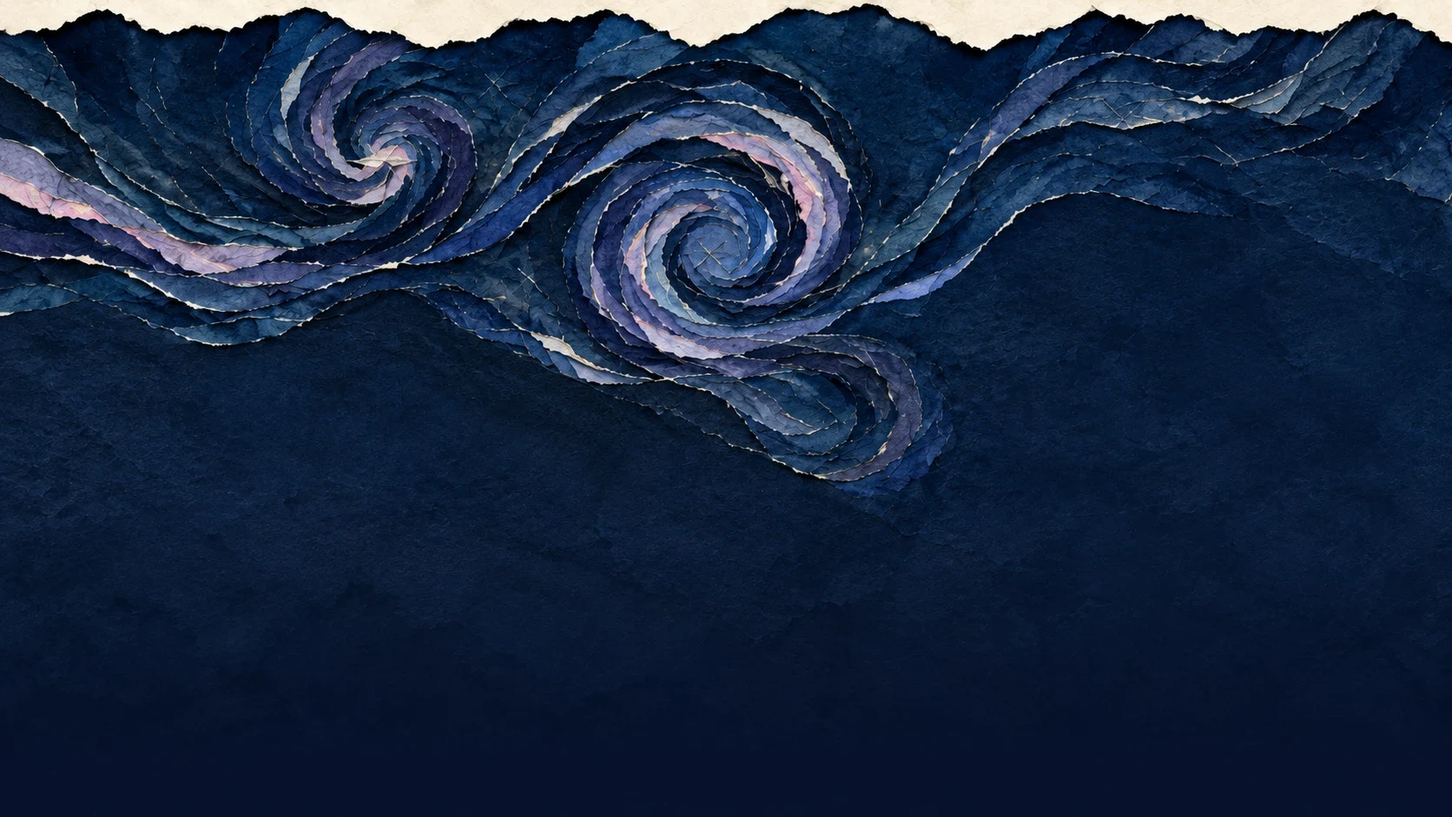
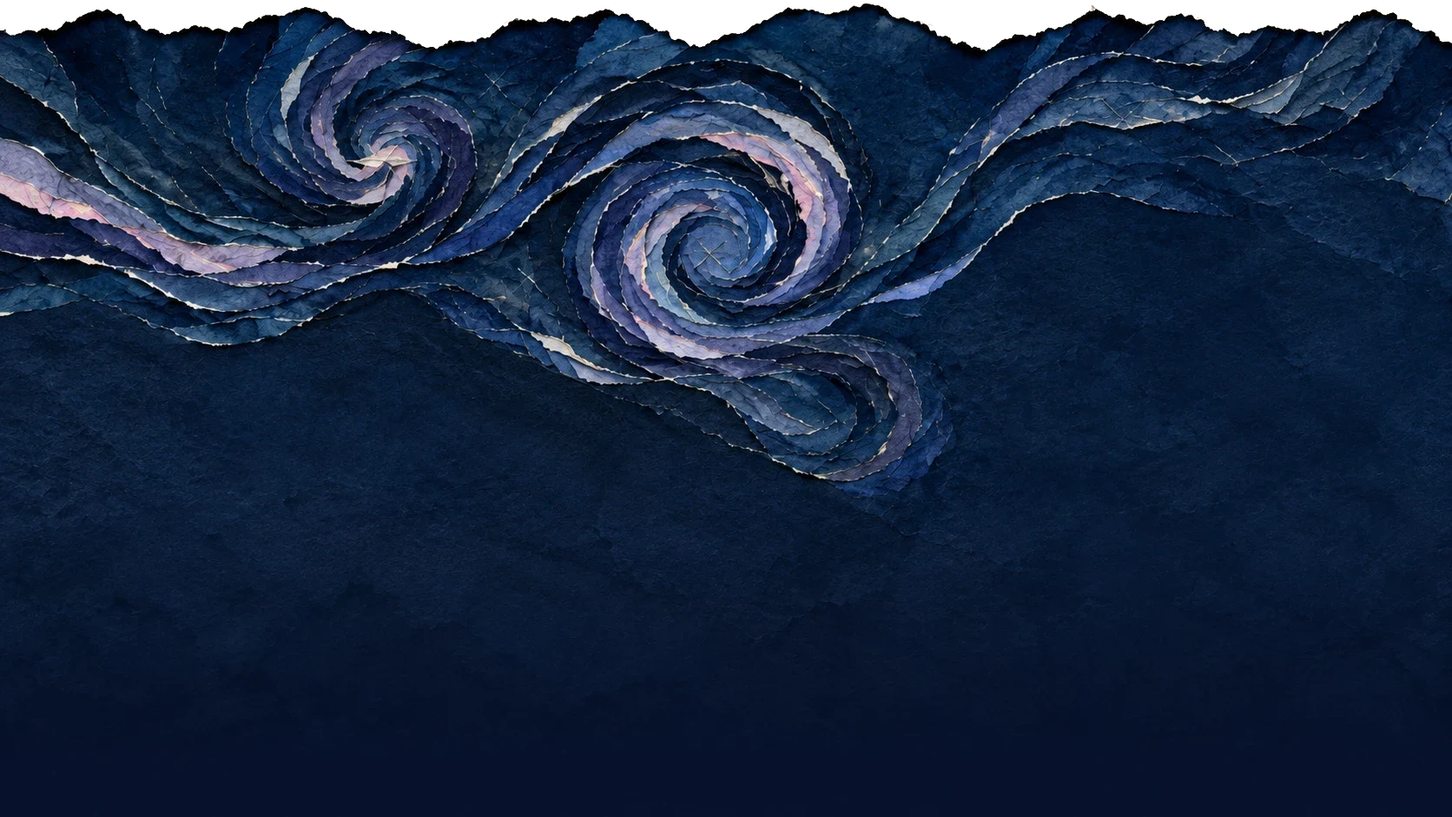
Site rebrand (not published): tiger + original footer layout back on the new art, Instrument Serif, Stand out online.
- Footer: 2026-10-03 layout (running tiger, quote + sign-up pill, wordmark + menu columns, legal row)
  on the Starry Night art; menus sit below the torn strips; base navy #070f23 matches the art's bottom.
- Torn top edge is see-through and the footer overlaps the section above, so no page-colour strip shows.
- Headings in Instrument Serif with -.01em tracking; homepage headline Stand out online. on one line,
  no marker behind it.
- Rate preset pills: chosen = bold navy ring, others greyed (no solid navy pill).

Changed region(s): [[0.0, 0.0, 1.0, 0.0616]]

diff --git a/website/scrolly-site/chrome/chrome.css b/website/scrolly-site/chrome/chrome.css
@@ -3,7 +3,7 @@
    "Tiger." (less girly tone, 2026-10-20), Jost (loaded by v3.css), navy torn-paper Starry Night footer. */
 html body #site-header,html body #site-footer{display:none!important}
 body{background:#f7f3ec}
-.scxg{--gut:clamp(20px,4.5vw,96px);--navy:#0a1930;--fnavy:#0b142c;--cream:#f7f3ec;--sky:#4da3ff;--pink:#ff3b7f;--mist:#dfe4f0;--mist-ink:#c9d1e6;--serif:Georgia,"Times New Roman",serif;--sans:"Jost",Arial,Helvetica,sans-serif;font-family:var(--sans);font-size:16px;line-height:1.45;color:var(--navy);position:relative}
+.scxg{--gut:clamp(20px,4.5vw,96px);--navy:#0a1930;--fnavy:#070f23;--cream:#f7f3ec;--sky:#4da3ff;--pink:#ff3b7f;--mist:#dfe4f0;--mist-ink:#c9d1e6;--serif:"Instrument Serif",Georgia,"Times New Roman",serif;--sans:"Jost",Arial,Helvetica,sans-serif;font-family:var(--sans);font-size:16px;line-height:1.45;color:var(--navy);position:relative}
 .scxg *,.scxg *::before,.scxg *::after{box-sizing:border-box}
 .scxg a{color:inherit}
 .scxg ul,.scxg li{list-style:none;margin:0;padding:0}
@@ -13,7 +13,7 @@ body{background:#f7f3ec}
 /* header (v3 2026-10-03, rebrand 2026-10-19: Jost nav in sentence case, sky hover underline, sky pill) */
 .scxg-hdr{position:relative;z-index:60;display:grid;grid-template-columns:auto 1fr auto;align-items:center;gap:24px;min-height:96px;padding:16px var(--gut);background:var(--cream)}
 .scxg-logo{display:block;justify-self:start;color:var(--navy);text-decoration:none}
-.scxg-wm{display:block;font:400 2.2rem/1 var(--serif);letter-spacing:-.05em}
+.scxg-wm{display:block;font:400 2.2rem/1 var(--serif);letter-spacing:-.01em}
 .scxg-hdr nav{display:flex;justify-self:center;align-items:center;gap:clamp(24px,2.4vw,52px);font-size:18px;font-weight:500;letter-spacing:.01em}
 .scxg-hdr nav a{text-decoration:none;white-space:nowrap;padding:12px 0;border-bottom:2px solid transparent}
 .scxg-hdr nav a:hover{border-bottom-color:var(--sky)}
@@ -49,12 +49,13 @@ body{background:#f7f3ec}
 .scxg-dclose{width:44px;height:44px;border:1px solid #fff;border-radius:50%;background:transparent;color:#fff;font-size:26px;line-height:1;cursor:pointer;padding:0}
 .scxg-drawer a{display:block;text-decoration:none;color:#fff}
 .scxg-drawer a:hover{color:var(--sky)}
-.scxg-drawer .top>li>a{font:400 clamp(1.9rem,2.6vw,2.5rem)/1.1 var(--serif);padding:14px 0 6px;letter-spacing:-.02em}
+.scxg-drawer .top>li>a{font:400 clamp(1.9rem,2.6vw,2.5rem)/1.1 var(--serif);padding:14px 0 6px;letter-spacing:-.01em}
 .scxg-drawer .top ul a,.scxg-drawer .top ul .scxg-soon{display:block;font-size:18px;padding:9px 0 9px 16px}
 .scxg-drawer .scxg-soon{color:var(--mist-ink)}
 .scxg-drawer .acct{margin-top:26px;border-top:1px solid rgba(223,228,240,.3);padding-top:14px}
 .scxg-drawer .acct a{font-size:15px;font-weight:700;letter-spacing:.16em;text-transform:uppercase;padding:12px 0}
-/* footer: pre-JS fallback = simple row on navy; chrome.js upgrades it to the rebrand layout (art, quote, sign-up + menu columns, legal row) and adds .v3 */
+/* footer: pre-JS fallback = simple row on navy; chrome.js upgrades it to the v3 layout (running tiger + quote + sign-up, menu columns,
+   legal row) on the rebrand art and adds .v3. Layout is the 2026-10-03 one (Mercedes 2026-10-20: keep the tiger and the layout). */
 .scxg-ftr{background:var(--fnavy);color:#f5f1ff;padding:38px var(--gut) 26px}
 .scxg-ftr .row1{display:flex;align-items:center;justify-content:space-between;gap:24px 46px;flex-wrap:wrap}
 .scxg-ftr .logo{display:block;color:#fff;text-decoration:none}
@@ -64,9 +65,13 @@ body{background:#f7f3ec}
 .scxg-ftr a:hover{text-decoration:underline}
 .scxg-ftr hr{border:0;height:1px;background:rgba(223,228,240,.25);margin:26px 0 16px}
 .scxg-ftr .copy{font-size:17px;color:var(--mist-ink)}
-/* art: three layers from the 2026-10-19 mockup (sky, torn strips, foil stars). The URLs come from chrome.js CFG.art as custom properties;
-   without them the footer is plain navy. The torn cream top edge of the art meets the cream page. */
-.scxg-ftr.v3{position:relative;padding:0;overflow:hidden;background-color:var(--fnavy);background-image:var(--ftr-strips),var(--ftr-sky);background-position:top center;background-repeat:no-repeat;background-size:max(100%,1150px) auto}
+/* art: three layers from the 2026-10-19 mockup (sky, torn strips, foil stars); URLs come from chrome.js CFG.art as custom properties.
+   The sky layer's torn top edge is see-through, and the footer is pulled up by the edge's depth (58 of 1672px), so the section above
+   shows through the tear on every page with no strip of page colour between them. Under the art the footer is #070f23, the art's
+   own bottom navy, so the two read as one sheet of paper. */
+.scxg-ftr.v3{position:relative;z-index:2;margin-top:calc(max(100vw,1150px) * -.035);padding:0;overflow:hidden;background-color:transparent;
+  background-image:var(--ftr-strips,none),var(--ftr-sky,none),linear-gradient(var(--fnavy),var(--fnavy));
+  background-position:top center,top center,0 calc(max(100vw,1150px) * .2);background-repeat:no-repeat;background-size:max(100%,1150px) auto,max(100%,1150px) auto,100% 100%}
 .scxg-ftr .fstars{position:absolute;top:0;left:50%;z-index:0;width:max(100%,1150px);aspect-ratio:1672/941;transform:translateX(-50%);background-image:var(--ftr-stars);background-size:100% 100%;background-repeat:no-repeat;pointer-events:none;animation:scxgtw 5s ease-in-out infinite}
 /* foil glint: a brighter copy of the star layer, revealed by a diagonal band that sweeps across */
 .scxg-ftr .fstars::after{content:"";position:absolute;inset:0;background:inherit;filter:brightness(1.8) saturate(1.15);-webkit-mask:linear-gradient(105deg,transparent 42%,#000 50%,transparent 58%) 150% 0/300% 100% no-repeat;mask:linear-gradient(105deg,transparent 42%,#000 50%,transparent 58%) 150% 0/300% 100% no-repeat;animation:scxgglint 8s ease-in-out infinite}
@@ -74,40 +79,36 @@ body{background:#f7f3ec}
 @keyframes scxgglint{0%{-webkit-mask-position:150% 0;mask-position:150% 0}60%,100%{-webkit-mask-position:-50% 0;mask-position:-50% 0}}
 @media(prefers-reduced-motion:reduce){.scxg-ftr .fstars,.scxg-ftr .fstars::after{animation:none}.scxg-ftr .fstars::after{display:none}}
 .scxg-ftr .w{position:relative;z-index:1;width:calc(100% - 2 * var(--gut));margin:0 auto}
-/* the top row reaches down to the calm navy band under the swirls (31% of the art's width), so the quote never sits on the busy swirl */
-.scxg-ftr .ftop{display:grid;grid-template-columns:minmax(0,1fr) minmax(0,1fr);align-items:end;gap:clamp(28px,5vw,80px);min-height:calc(max(100vw,1150px) * .31);padding:calc(max(5.2vw,60px) + clamp(48px,5vw,88px)) 0 clamp(28px,3vw,48px)}
-.scxg-ftr .fquote{margin:0;font:italic 400 clamp(2.8rem,5vw,5.4rem)/1 var(--serif);letter-spacing:-.03em;color:#f5f1ff;text-shadow:0 0 18px #050f20,0 0 36px #050f20}
+/* the tiger row reaches down past the art's torn-paper strips (to 47% of the art's width), so the tiger stands on them and the menu
+   columns start on the plain navy below, never crossed by a paper edge */
+.scxg-ftr .fhero{position:relative;z-index:1;display:grid;grid-template-columns:minmax(0,1.3fr) minmax(420px,.7fr);align-items:end;gap:20px;min-height:calc(max(100vw,1150px) * .47);padding-top:calc(max(100vw,1150px) * .06)}
+.scxg-ftr .ftiger{display:block;width:min(1400px,80vw);max-width:none;height:auto;margin-left:-16vw;align-self:end;position:relative;z-index:1}
+.scxg-ftr .fbrand{display:flex;flex-direction:column;align-items:flex-start;justify-content:center;gap:24px;align-self:center;padding-right:3vw;position:relative;z-index:2}
+.scxg-ftr .fquote{margin:0;font:italic 400 clamp(2.8rem,3.9vw,5.4rem)/1 var(--serif);letter-spacing:-.01em;color:#f5f1ff;white-space:nowrap;text-shadow:0 0 18px #050f20,0 0 36px #050f20}
 .scxg-ftr .fquote em{color:var(--pink)}
-.scxg-ftr .ffig{justify-self:end;width:min(100%,420px)}
-.scxg-ftr .ffig img{display:block;width:100%;height:auto}
-.scxg-ftr .fnav{display:grid;grid-template-columns:1.4fr repeat(4,minmax(0,1fr));gap:clamp(24px,3vw,56px);align-items:start;padding:clamp(32px,4vw,56px) 0;border-top:1px solid rgba(223,228,240,.25)}
-.scxg-ftr .fsign>p:first-child{margin:0 0 16px;font:400 1.375rem/1.4 var(--sans);color:var(--mist)}
-.scxg-ftr .signup{display:flex;flex-wrap:wrap;align-items:flex-end;gap:10px}
-.scxg-ftr .signup label{flex:1 1 200px;min-width:0}
-.scxg-ftr .signup label span{display:block;margin:0 0 8px;font:700 15px/1.3 var(--sans);letter-spacing:.16em;text-transform:uppercase;color:#f5f1ff}
-.scxg-ftr .signup input{width:100%;min-height:52px;padding:13px 18px;border:1px solid var(--mist-ink);border-radius:999px;background:#fff;color:var(--navy);font:18px var(--sans)}
+.scxg-ftr .fcontact{width:min(430px,100%)}
+.scxg-ftr .signup{display:flex;background:#fff;border:1px solid #fff;border-radius:999px;overflow:hidden}
+.scxg-ftr .signup input{min-width:0;flex:1;background:#fff;color:var(--navy);border:0;padding:13px 16px;font:18px var(--sans)}
 .scxg-ftr .signup input::placeholder{color:#595959;opacity:1}
-.scxg-ftr .signup input:focus-visible{outline:3px solid var(--sky);outline-offset:2px}
-.scxg-ftr .signup button{min-height:52px;padding:14px 26px;border:0;border-radius:999px;background:var(--sky);color:var(--navy);font:800 15px/1 var(--sans);letter-spacing:.16em;text-transform:uppercase;cursor:pointer;transition:background .2s}
-.scxg-ftr .signup button:hover{background:#fff}
+.scxg-ftr .signup input:focus-visible{outline:3px solid var(--sky);outline-offset:-3px}
+.scxg-ftr .signup button{min-width:48px;min-height:48px;border:0;background:var(--sky);color:var(--navy);font-size:1.3rem;cursor:pointer}
+.scxg-ftr .signup button:hover{background:var(--navy);color:#fff}
 .scxg-ftr .signup button[disabled]{opacity:.7;cursor:wait}
-.scxg-ftr .signup-note{margin:10px 0 0;font-size:15px;line-height:1.4;color:var(--mist-ink)}
-.scxg-ftr .social{display:flex;gap:8px;margin-top:14px;margin-left:-10px}
-.scxg-ftr .social a{width:44px;height:44px;display:grid;place-items:center;color:var(--mist)}
-.scxg-ftr .social a:hover{color:#fff}
+.scxg-ftr .signup-note{margin:8px 0 0 16px;font-size:15px;line-height:1.4;color:var(--mist-ink)}
+.scxg-ftr .social{display:flex;gap:13px;margin-top:14px}
+.scxg-ftr .social a{width:44px;height:44px;display:grid;place-items:center;color:#fff}
+.scxg-ftr .social a:hover{color:var(--sky)}
 .scxg-ftr .social svg{width:22px;height:22px}
-.scxg-ftr .col h2{font-family:var(--sans)!important;font-weight:700!important;line-height:1.3;margin:0 0 12px;font-size:15px;letter-spacing:.16em;text-transform:uppercase;color:#f5f1ff}
-.scxg-ftr .col a,.scxg-ftr .col .scxg-soon{display:block;padding:7px 0;font-size:18px;line-height:1.4;color:var(--mist)}
-.scxg-ftr .col a:hover{color:#fff;text-underline-offset:5px}
+.scxg-ftr .fnav{display:grid;grid-template-columns:1.3fr repeat(4,1fr);gap:38px;align-items:start;padding:30px 0 24px}
+.scxg-ftr .fnav .logo .scxg-wm{font-size:2.4rem}
+.scxg-ftr .col h2{font-family:var(--sans)!important;font-weight:700!important;line-height:1.3;margin:0 0 14px;font-size:15px;letter-spacing:.14em;text-transform:uppercase;color:#fff}
+.scxg-ftr .col a,.scxg-ftr .col .scxg-soon{display:block;padding:7px 0;font-size:18px;color:var(--mist)}
+.scxg-ftr .col a:hover{color:#fff}
 .scxg-ftr .col .scxg-soon{color:var(--mist-ink)}
-.scxg-ftr .fbot{display:flex;align-items:center;flex-wrap:wrap;gap:4px 28px;padding:12px 0 26px;border-top:1px solid rgba(223,228,240,.25);font-size:17px;color:var(--mist-ink)}
+.scxg-ftr .fbot{display:flex;align-items:center;justify-content:center;flex-wrap:wrap;gap:4px 36px;padding:16px 0 24px;font-size:17px;color:var(--mist-ink)}
 .scxg-ftr .fbot a{display:inline-flex;align-items:center;min-height:44px;color:var(--mist-ink)}
-@media(max-width:1100px){.scxg-ftr .fnav{grid-template-columns:repeat(2,minmax(0,1fr))}.scxg-ftr .fsign{grid-column:1/-1}}
-/* phones: the quote sits over the swirl (until a 9:16 version of the art exists), so it gets a soft navy glow for contrast */
-/* below 1150px the art is drawn 1150px wide (about 650px tall), so the top row fills it and the quote lands on the dark lower layers; the sign-up and
-   menus then start under the art, clear of the torn paper edges */
-@media(max-width:900px){.scxg-ftr .ftop{grid-template-columns:1fr;min-height:600px;padding-top:min(240px,62vw)}.scxg-ftr .ffig{justify-self:center}.scxg-ftr .fquote{text-shadow:0 0 18px #050f20,0 0 36px #050f20,0 2px 4px #050f20}}
-@media(max-width:700px){.scxg-ftr .w{width:calc(100% - 32px)}.scxg-ftr .fquote{font-size:2.8rem}.scxg-ftr .fnav{gap:28px 20px}.scxg-ftr .signup button{width:100%}.scxg-ftr .fbot{gap:0 22px}}
+@media(max-width:1000px){.scxg-ftr .fhero{grid-template-columns:1fr;min-height:0;padding-top:calc(max(100vw,1150px) * .345)}.scxg-ftr .ftiger{width:125%;max-width:none;margin-left:-22%}.scxg-ftr .fbrand{padding:0 20px 28px}.scxg-ftr .fquote{white-space:normal}.scxg-ftr .fnav{grid-template-columns:repeat(2,1fr)}.scxg-ftr .fnav>.logo{grid-column:1/-1}}
+@media(max-width:700px){.scxg-ftr .w{width:calc(100% - 32px)}.scxg-ftr .fbrand{padding:0 16px 24px}.scxg-ftr .fquote{font-size:2.6rem}.scxg-ftr .fbot{gap:4px 24px}}
 /* WooCommerce block cart/checkout buttons: sky pill, navy text (white on sky fails contrast), no underline */
 body .wc-block-cart__submit-button,body .wc-block-components-checkout-place-order-button,body .wc-block-components-button:not(.is-link){color:#0a1930!important;text-decoration:none!important;border-radius:999px!important}
 body .wc-block-cart__submit-button *,body .wc-block-components-checkout-place-order-button *{color:#0a1930!important;text-decoration:none!important}
@@ -124,7 +125,7 @@ body .wc-block-cart__submit-button:hover *,body .wc-block-components-checkout-pl
 .scxg-cd.open{display:flex;animation:scxgin .25s ease-out}.scxg-cbg.open{display:block}
 @media(prefers-reduced-motion:reduce){.scxg-cd.open{animation:none}}
 .scxg-cd .hd{display:flex;justify-content:space-between;align-items:center;padding:22px 24px 14px}
-.scxg-cd .hd span{font:400 28px/1 Georgia,'Times New Roman',serif}
+.scxg-cd .hd span{font:400 28px/1 "Instrument Serif",Georgia,'Times New Roman',serif}
 .scxg-cd .x{width:44px;height:44px;border:0;border-radius:50%;background:#0a1930;color:#fff;font-size:24px;line-height:1;cursor:pointer}
 .scxg-cd .items{flex:1;overflow-y:auto;padding:4px 24px}
 .scxg-cd .it{display:grid;grid-template-columns:64px 1fr auto;gap:14px;align-items:start;padding:14px 0;border-bottom:1px solid rgba(10,25,48,.1)}
@@ -144,7 +145,7 @@ body .wc-block-cart__submit-button:hover *,body .wc-block-components-checkout-pl
 
 /* checkout: "Your stripe shirt" heading above the shirt-size field (tagged by chrome.js) */
 .scxg-shirt-sec{margin-top:30px!important}
-.scxg-shirt-sec::before{content:"Your stripe shirt";display:block;margin:0 0 6px;font-family:Georgia,'Times New Roman',serif;font-weight:400;font-size:26px;line-height:1.15;letter-spacing:-.02em;color:#0a1930}
+.scxg-shirt-sec::before{content:"Your stripe shirt";display:block;margin:0 0 6px;font-family:"Instrument Serif",Georgia,'Times New Roman',serif;font-weight:400;font-size:26px;line-height:1.15;letter-spacing:-.01em;color:#0a1930}
 .scxg-shirt-sec::after{content:"Pick your size now. It ships free in the lower 48 when you hit $1,000.";display:block;margin-top:8px;font-size:17px;line-height:1.4;color:#0a1930}
 
 /* WP admin bar (logged-in admins only): v3.css's theme layer turns every input[type=submit] into a pill, which made the

diff --git a/website/scrolly-site/chrome/v3.css b/website/scrolly-site/chrome/v3.css
@@ -1,4 +1,4 @@
-@import url('https://fonts.googleapis.com/css2?family=Jost:wght@400;500;700;800&display=swap');
+@import url('https://fonts.googleapis.com/css2?family=Instrument+Serif:ital@0;1&family=Jost:wght@400;500;700;800&display=swap');
 /* Scrolly v3 FOUNDATION (2026-10-03). One source for the v3 look on every page. Printed site-wide ahead of chrome.css by the same
    WPCode snippet (install-chrome.mjs concatenates the two), so it also reaches theme-rendered pages (/product/*, /shop/, 404, opt-out)
    that no page build can touch. Values match the homepage (home.css, .hp).
@@ -11,12 +11,13 @@
 /* 1. tokens. Rebrand 2026-10-19 (vault brand/visual-system.md): off-white page, ink navy text + dark bands, sky-blue buttons with navy text,
    blue-mist cards and soft panels, sky-blue marker under italic words. Hot pink means Mercedes: only where the page is about her or in her
    voice (footer "Tiger.", her name, About, her quotes, frames around her photos, footer stars); never on products, prices, Clubs, tools or
-   buttons, and never as text on light. "Less girly" tone, 2026-10-20: no baby pink, no lavender. Georgia for headlines, Jost (imported at the top of this file) for everything else. Contrast pairs: chrome/contrast.mjs.
+   buttons, and never as text on light. "Less girly" tone, 2026-10-20: no baby pink, no lavender. Instrument Serif for headlines, big numbers and prices (2026-10-20, replaced Georgia; it is narrow, so tracking is -.01em,
+   never tighter), Jost for everything else. Both are imported at the top of this file. Contrast pairs: chrome/contrast.mjs.
    --s3-orange / --s3-or-text / --s3-black are the old names, kept as aliases so live page CSS that still uses them follows the new palette. */
 :root{--s3-cream:#f7f3ec;--s3-ink:#0a1930;--s3-navy:#0a1930;--s3-muted:#4a4e66;--s3-line:#d9d3ca;--s3-sky:#4da3ff;--s3-pink:#ff3b7f;--s3-mist:#dfe4f0;--s3-mist-ink:#c9d1e6;
   --s3-orange:var(--s3-sky);--s3-or-text:var(--s3-ink);--s3-black:var(--s3-navy);
   --s3-mark:linear-gradient(transparent 60%,var(--s3-sky) 60%,var(--s3-sky) 90%,transparent 90%);
-  --s3-serif:Georgia,"Times New Roman",serif;--s3-sans:"Jost",Arial,Helvetica,sans-serif;--s3-gut:clamp(20px,4.5vw,96px);--s3-read:720px;--s3-sec:clamp(56px,6vw,112px);
+  --s3-serif:"Instrument Serif",Georgia,"Times New Roman",serif;--s3-sans:"Jost",Arial,Helvetica,sans-serif;--s3-gut:clamp(20px,4.5vw,96px);--s3-read:720px;--s3-sec:clamp(56px,6vw,112px);
   /* type scale (2026-10-03, Mercedes: no random sizes). Every text size on v3 pages is one of these steps; nothing under 15px. */
   --s3-fs-h2:clamp(2.4rem,4vw,4rem);--s3-fs-h3:clamp(1.9rem,2.6vw,2.5rem);--s3-fs-title:1.75rem;--s3-fs-lede:1.375rem;
   --s3-fs-body:1.125rem;--s3-fs-body-serif:1.25rem;--s3-fs-ui:1.125rem;--s3-fs-num:1.5rem;--s3-fs-label:.9375rem;--s3-fs-fine:1.0625rem}
@@ -30,7 +31,7 @@ body:has(.s3){background:var(--s3-cream)!important}
 .s3 img{display:block;max-width:100%;height:auto}
 .s3 a{color:inherit}
 .s3 h1,.s3 h2,.s3 h3,.s3 h4,.s3 p,.s3 figure,.s3 blockquote{margin:0}
-.s3 h1,.s3 h2,.s3 h3,.s3 h4{font-family:var(--s3-serif)!important;font-weight:400!important;color:var(--s3-ink);text-transform:none;letter-spacing:-.02em}
+.s3 h1,.s3 h2,.s3 h3,.s3 h4{font-family:var(--s3-serif)!important;font-weight:400!important;color:var(--s3-ink);text-transform:none;letter-spacing:-.01em}
 /* zero-specificity reset, so .s3-btn and other component classes always win on <button>/<input> */
 :where(.s3) :where(button,input,select,textarea){font:inherit}
 .s3 a:focus-visible,.s3 button:focus-visible,.s3 input:focus-visible,.s3 select:focus-visible,.s3 textarea:focus-visible,.s3 summary:focus-visible{outline:3px solid var(--s3-navy);outline-offset:4px}
@@ -47,8 +48,8 @@ body:has(.s3){background:var(--s3-cream)!important}
 .s3-dark{background:var(--s3-navy);color:#fff}
 .s3-dark h1,.s3-dark h2,.s3-dark h3{color:#fff}
 /* type */
-.s3-display{font:400 clamp(3.2rem,7vw,7.8rem)/.88 var(--s3-serif)!important;letter-spacing:-.06em!important}
-.s3-h2{font:400 var(--s3-fs-h2)/1.02 var(--s3-serif)!important;letter-spacing:-.04em!important}
+.s3-display{font:400 clamp(3.2rem,7vw,7.8rem)/.88 var(--s3-serif)!important;letter-spacing:-.01em!important}
+.s3-h2{font:400 var(--s3-fs-h2)/1.02 var(--s3-serif)!important;letter-spacing:-.01em!important}
 .s3-h3{font:400 var(--s3-fs-h3)/1.08 var(--s3-serif)!important}
 .s3-num{font:400 clamp(3.6rem,6vw,5.5rem)/.85 var(--s3-serif)!important;color:var(--s3-ink)}
 .s3-dark .s3-num{color:var(--s3-sky)}
@@ -118,13 +119,15 @@ body:has(.s3){background:var(--s3-cream)!important}
 .s3-prose strong{font-weight:700}
 .s3-prose table{width:100%;border-collapse:collapse;font-size:var(--s3-fs-fine)}
 .s3-prose th,.s3-prose td{text-align:left;vertical-align:top;padding:10px 12px 10px 0;border-bottom:1px solid var(--s3-line)}
-/* rate presets under a number field (calculators, Club pages): Weak / Typical / Strong pills that fill the box; the chosen one is black.
+/* rate presets under a number field (calculators, Club pages): Weak / Typical / Strong pills that fill the box. The chosen one keeps its white
+   fill with a bold navy ring; the others are greyed (Mercedes 2026-10-20: no solid navy pill).
    Markup + script: presetHtml() / PRESET_JS in calculators-data.mjs. */
 .s3-pres{display:flex;gap:6px;margin-top:10px}
 .s3 .s3-pre{flex:1 1 0;display:inline-flex;align-items:center;justify-content:center;gap:4px;min-height:44px;padding:8px 6px;border:1px solid #b9b4c9;border-radius:999px;background:#fff;color:var(--s3-ink);font:400 var(--s3-fs-label)/1 var(--s3-sans);white-space:nowrap;cursor:pointer}
 .s3 .s3-pre b{font-weight:700}
 .s3 .s3-pre:hover{border-color:var(--s3-ink)}
-.s3 .s3-pre[aria-pressed=true]{background:var(--s3-ink);border-color:var(--s3-ink);color:#fff}
+.s3 .s3-pre[aria-pressed=false]{color:var(--s3-muted);border-color:#cfd3dc;background:rgba(255,255,255,.7)}
+.s3 .s3-pre[aria-pressed=true]{background:#fff;border-color:var(--s3-ink);box-shadow:inset 0 0 0 2px var(--s3-ink);color:var(--s3-ink)}
 .s3 .s3-pre:focus-visible{outline:2px solid var(--s3-ink);outline-offset:2px}
 .s3 .s3-hint{margin-top:10px;font-size:var(--s3-fs-fine);line-height:1.45;color:var(--s3-muted)}
 @media(max-width:900px){
@@ -142,8 +145,8 @@ body:not(:has(.hp,.scx,.s3)){background:var(--s3-cream);color:var(--s3-ink);font
 body:not(:has(.hp,.scx,.s3)) .content-area{max-width:none!important;padding-left:0!important;padding-right:0!important}
 body:not(:has(.hp,.scx,.s3)) .site-main{width:calc(100% - 2 * var(--s3-gut));max-width:none;margin:0 auto;padding:clamp(28px,4vw,64px) 0 var(--s3-sec)!important}
 body.page:not(:has(.hp,.scx,.s3)) .site-main,body.single-post:not(:has(.hp,.scx,.s3)) .site-main,body.error404 .site-main{max-width:var(--s3-read)}
-body:not(:has(.hp,.scx,.s3)) :is(h1,h2,h3,h4,h5,h6,.product_title,.page-title){font-family:var(--s3-serif)!important;font-weight:400!important;color:var(--s3-ink);text-transform:none;letter-spacing:-.02em;line-height:1.05}
-body:not(:has(.hp,.scx,.s3)) :is(h1,.product_title,.page-title){font-size:clamp(2.8rem,5.5vw,5.2rem);letter-spacing:-.045em;line-height:.95;margin:0 0 .4em}
+body:not(:has(.hp,.scx,.s3)) :is(h1,h2,h3,h4,h5,h6,.product_title,.page-title){font-family:var(--s3-serif)!important;font-weight:400!important;color:var(--s3-ink);text-transform:none;letter-spacing:-.01em;line-height:1.05}
+body:not(:has(.hp,.scx,.s3)) :is(h1,.product_title,.page-title){font-size:clamp(2.8rem,5.5vw,5.2rem);letter-spacing:-.01em;line-height:.95;margin:0 0 .4em}
 body:not(:has(.hp,.scx,.s3)) h2{font-size:var(--s3-fs-h2);margin:1.6em 0 .5em}
 body:not(:has(.hp,.scx,.s3)) h3{font-size:var(--s3-fs-title);margin:1.4em 0 .4em}
 body:not(:has(.hp,.scx,.s3)) a{color:var(--s3-ink)}
@@ -238,6 +241,6 @@ body .raccess-skip-link,body .skip-link{font-size:var(--s3-fs-ui)!important;colo
 
 /* Cart + Checkout still carry the old .scx-woo prelude (commerce session migrates them next). Once the old Customizer CSS is removed,
    these keep their headings and any classic Woo buttons on v3 instead of falling back to Hello Biz defaults. */
-body:has(.scx-woo) .page-content>h1,body:has(.scx-woo) .page-content .wp-block-heading{font-family:var(--s3-serif)!important;font-weight:400!important;text-transform:none!important;letter-spacing:-.03em!important;color:var(--s3-ink)}
+body:has(.scx-woo) .page-content>h1,body:has(.scx-woo) .page-content .wp-block-heading{font-family:var(--s3-serif)!important;font-weight:400!important;text-transform:none!important;letter-spacing:-.01em!important;color:var(--s3-ink)}
 body:has(.scx-woo) .woocommerce :is(a.button,button.button,input.button,.wc-backward){display:inline-flex!important;align-items:center;justify-content:center;min-height:52px;padding:15px 30px!important;border:0!important;border-radius:999px!important;background:var(--s3-sky)!important;color:var(--s3-navy)!important;font:800 var(--s3-fs-label)/1 var(--s3-sans)!important;letter-spacing:.12em!important;text-transform:uppercase!important;text-decoration:none!important}
 body:has(.scx-woo) .woocommerce :is(a.button,button.button,input.button,.wc-backward):hover{background:var(--s3-navy)!important;color:#fff!important}

diff --git a/website/scrolly-site/chrome/chrome.js b/website/scrolly-site/chrome/chrome.js
@@ -48,12 +48,13 @@
     if(el.parentElement){if(!el.classList.contains('scxg-shirt-sec'))el.classList.add('scxg-shirt-sec')}}
   if(document.querySelector('.wp-block-woocommerce-checkout,.wc-block-checkout')){shirtSec();new MutationObserver(function(){shirtSec()}).observe(document.body,{childList:true,subtree:true})}
   document.addEventListener('keydown',function(e){var r=root();if(e.key==='Escape'&&r&&r.classList.contains('scxg-open'))set(false)});
-  /* v3 (2026-10-03), rebrand 2026-10-19. CFG: footer art layers (navy torn-paper Starry Night: sky, torn strips, foil stars; source files in
-     website/scrolly-site/assets/ftr-*.webp, upload them to WP media and set the URLs here), the footer figure (Mercedes riding a tiger: not made
-     yet, so null; set {src,w,h,alt} when it exists), header Join button, quote (last word in hot pink), and the footer signup + social links. */
+  /* v3 (2026-10-03), rebrand 2026-10-19. CFG: footer art layers (navy torn-paper Starry Night: sky with a see-through torn top edge, torn
+     strips, foil stars; source files in website/scrolly-site/assets/ftr-*.webp, upload them to WP media and set the URLs here), the footer
+     tiger (swap in the "Mercedes riding a tiger" image here when it exists), header Join button, quote (last word in hot pink = Mercedes's
+     voice), and the footer signup + social links. */
   var CFG={art:{sky:'https://scrollyseo.com/wp-content/uploads/2026/10/ftr-sky.webp',strips:'https://scrollyseo.com/wp-content/uploads/2026/10/ftr-strips.webp',stars:'https://scrollyseo.com/wp-content/uploads/2026/10/ftr-stars.webp'},
-    figure:null,
-    join:['/next-move/','Take the quiz'],quote:['Go get ’em,','Tiger.'],signupLine:'Less scrolling, more Scrolly.',
+    tiger:'https://scrollyseo.com/wp-content/uploads/2026/10/scrolly-hp3-footer-tiger.webp',tw:1800,th:600,
+    join:['/next-move/','Take the quiz'],quote:['Go get ’em,','Tiger.'],
     signup:{action:'https://assets.mailerlite.com/jsonp/2596740/forms/200782368424855203/subscribe',field:'fields[email]'},/* MailerLite form 2QLk6d "Less scrolling, more Scrolly" */
     social:[['Instagram','https://www.instagram.com/scrollysocial/'],['TikTok','https://www.tiktok.com/@scrollysocial'],['YouTube','https://www.youtube.com/@ScrollySocial'],['X','https://x.com/scrollysocial']]/* format: e.g. [['Instagram','https://instagram.com/...'],['TikTok','...'],['YouTube','...'],['Pinterest','...'],['Facebook','...']] */};
   var ICO={Instagram:'<svg viewBox="0 0 24 24" fill="none" stroke="currentColor" stroke-width="1.8" aria-hidden="true"><rect x="3" y="3" width="18" height="18" rx="5"/><circle cx="12" cy="12" r="4"/><circle cx="17.5" cy="6.5" r="1" fill="currentColor" stroke="none"/></svg>',
@@ -67,19 +68,18 @@
     right.insertBefore(j,right.querySelector('.scxg-burger'))}
   /* Footer v3: columns = Main Menu tree (read from the drawer), bottom row = Footer Menu links. Edit both in Appearance > Menus. */
   function foot(){var f=document.querySelector('.scxg-ftr');if(!f||f.__v3)return;f.__v3=1;
-    var legal=[].slice.call(f.querySelectorAll('nav a')).map(lk),cols='';
+    var logo=f.querySelector('.logo'),legal=[].slice.call(f.querySelectorAll('nav a')).map(lk),cols='';
     [].slice.call(document.querySelectorAll('.scxg-drawer .top>li')).forEach(function(li){var a=li.querySelector(':scope>a');if(!a)return;
       var kids=[].slice.call(li.querySelectorAll(':scope>ul>li>a'));if(!kids.length)kids=[a];
       cols+='<div class="col"><h2>'+esc(a.textContent)+'</h2><ul>'+kids.map(function(k){return '<li>'+lk(k)+'</li>'}).join('')+'</ul></div>'});
-    var contact='<p>'+esc(CFG.signupLine)+'</p>';
-    if(CFG.signup)contact+='<form class="signup" method="post" action="'+esc(CFG.signup.action)+'" target="_blank"><label for="scxg-email"><span>Email</span><input id="scxg-email" type="email" name="'+esc(CFG.signup.field)+'" placeholder="you@example.com" autocomplete="email" required></label><input type="hidden" name="ml-submit" value="1"><input type="hidden" name="anticsrf" value="true"><button type="submit">Sign up</button></form><p class="signup-note" role="status">Organic marketing tips by email. Unsubscribe anytime.</p>';
+    var contact='';
+    if(CFG.signup)contact+='<form class="signup" method="post" action="'+esc(CFG.signup.action)+'" target="_blank"><label for="scxg-email" style="position:absolute;left:-9999px">Your email</label><input id="scxg-email" type="email" name="'+esc(CFG.signup.field)+'" placeholder="Your email" autocomplete="email" required><input type="hidden" name="ml-submit" value="1"><input type="hidden" name="anticsrf" value="true"><button type="submit" aria-label="Subscribe">→</button></form><p class="signup-note" role="status">Organic marketing tips by email. Unsubscribe anytime.</p>';
     if(CFG.social.length)contact+='<div class="social">'+CFG.social.map(function(s){return '<a href="'+esc(s[1])+'" aria-label="Scrolly on '+esc(s[0])+' (opens in a new tab)" rel="noopener" target="_blank">'+(ICO[s[0]]||esc(s[0]))+'</a>'}).join('')+'</div>';
-    var fig=CFG.figure?'<div class="ffig"><img src="'+esc(CFG.figure.src)+'" alt="'+esc(CFG.figure.alt||'')+'" width="'+CFG.figure.w+'" height="'+CFG.figure.h+'" loading="lazy" decoding="async"></div>':'';
     if(CFG.art){f.style.setProperty('--ftr-sky','url("'+CFG.art.sky+'")');f.style.setProperty('--ftr-strips','url("'+CFG.art.strips+'")');f.style.setProperty('--ftr-stars','url("'+CFG.art.stars+'")')}
     f.innerHTML=(CFG.art?'<div class="fstars" aria-hidden="true"></div>':'')
-      +'<div class="w ftop"><p class="fquote">'+esc(CFG.quote[0])+' <em>'+esc(CFG.quote[1])+'</em></p>'+fig+'</div>'
-      +'<div class="w fnav"><div class="fsign">'+contact+'</div>'+cols+'</div>'
-      +'<div class="w fbot"><span>© '+new Date().getFullYear()+' Scrolly</span>'+legal.join('')+'</div>';
+      +'<div class="fhero"><img class="ftiger" src="'+CFG.tiger+'" alt="" width="'+CFG.tw+'" height="'+CFG.th+'" loading="lazy" decoding="async"><div class="fbrand"><p class="fquote">'+esc(CFG.quote[0])+' <em>'+esc(CFG.quote[1])+'</em></p>'+(contact?'<div class="fcontact">'+contact+'</div>':'')+'</div></div>'
+      +'<div class="w fnav">'+(logo?logo.outerHTML:'')+cols+'</div>'
+      +'<div class="w fbot">'+legal.join('')+'<span>© '+new Date().getFullYear()+' Scrolly</span></div>';
     f.classList.add('v3');
     /* Signup posts to MailerLite in the background and shows the result in place (no new tab); a failed request falls back to a normal submit. */
     var sf=f.querySelector('form.signup');if(sf)sf.addEventListener('submit',function(e){e.preventDefault();var note=f.querySelector('.signup-note'),btn=sf.querySelector('button');btn.disabled=true;

diff --git a/website/scrolly-site/home.css b/website/scrolly-site/home.css
@@ -4,14 +4,14 @@
    (no pink or orange text on cream; hot pink is reserved for Mercedes herself, so not used on this page outside the footer), Jost for ledes and body (no upright Georgia in paragraphs). Jost is loaded by chrome/v3.css. */
 body:has(.hp) #content,body:has(.hp) main,body:has(.hp) .site-main,body:has(.hp) .page-content{max-width:none!important;width:100%!important;padding:0!important;margin:0!important}
 body:has(.hp){margin:0;background:#f7f3ec}
-.hp{--cream:#f7f3ec;--ink:#0a1930;--muted:#4a4e66;--line:#d9d3ca;--sky:#4da3ff;--pink:#ff3b7f;--gut:clamp(20px,4.5vw,96px);--serif:Georgia,"Times New Roman",serif;--sans:"Jost",Arial,Helvetica,sans-serif;
+.hp{--cream:#f7f3ec;--ink:#0a1930;--muted:#4a4e66;--line:#d9d3ca;--sky:#4da3ff;--pink:#ff3b7f;--gut:clamp(20px,4.5vw,96px);--serif:"Instrument Serif",Georgia,"Times New Roman",serif;--sans:"Jost",Arial,Helvetica,sans-serif;
   background:var(--cream);color:var(--ink);font-family:var(--sans);font-size:16px;line-height:1.4;overflow-x:hidden}
 .hp *,.hp *::before,.hp *::after{box-sizing:border-box}
 .hp img{display:block;max-width:100%;height:auto}
 .hp a{color:inherit;text-decoration:none}
 .hp h1,.hp h2,.hp h3,.hp p{margin:0}
 /* the site Customizer (Additional CSS) forces h1-h6 to Arial Black !important; headings here are the reference serif */
-.hp h1,.hp h2,.hp h3{font-family:Georgia,"Times New Roman",serif!important;font-weight:400!important;color:var(--ink);text-transform:none}
+.hp h1,.hp h2,.hp h3{font-family:var(--serif)!important;font-weight:400!important;color:var(--ink);text-transform:none}
 .hp button,.hp input{font:inherit}
 .hp a:focus-visible,.hp button:focus-visible,.hp input:focus-visible{outline:3px solid var(--ink);outline-offset:4px}
 .hp .wrap{width:calc(100% - 2 * var(--gut));margin:0 auto}
@@ -26,7 +26,11 @@ body:has(.hp){margin:0;background:#f7f3ec}
 .hp-hero .wrap{display:grid;grid-template-columns:minmax(0,1.1fr) minmax(0,.9fr);align-items:center;min-height:600px}
 .hp-hero .copy{position:relative;z-index:2;justify-self:end;padding:50px clamp(0px,2vw,40px) 90px 0}
 .hp-hero h1 span{display:block;white-space:nowrap}
-.hp-hero h1{font:400 clamp(3.4rem,5.6vw,6.6rem)/.98 var(--serif);letter-spacing:-.055em;margin:0 0 26px}
+.hp-hero h1{font:400 clamp(3.4rem,5.6vw,6.6rem)/.98 var(--serif);letter-spacing:-.015em;margin:0 0 26px}
+/* one-line headline (Mercedes 2026-10-20: "Stand out online." on one line on desktop and phone), sized to the copy column */
+.hp-hero h1.one{white-space:nowrap;font-size:clamp(3rem,6.6vw,7.4rem);line-height:1}
+/* no marker in the hero (Mercedes 2026-10-20: the eye should go to the button); the italic stays */
+.hp-hero h1 .or{background:none;padding:0}
 .hp-hero .lede{font:400 clamp(1.375rem,1.9vw,1.875rem)/1.35 var(--sans);margin:0 0 38px;max-width:30ch;text-wrap:balance}
 /* the tiger art has wide empty margins; pull it left so the animal sits beside the headline */
 .hp-hero .act{display:inline-grid;max-width:100%}
@@ -86,7 +90,7 @@ body:has(.hp){margin:0;background:#f7f3ec}
 .hp-earned a:focus-visible{outline-color:#fff}
 .hp-earned .wrap{display:grid;grid-template-columns:1fr 1fr;align-items:center}
 .hp-earned .copy{padding:50px 3vw 70px 0}
-.hp-earned h2{font:400 clamp(2.2rem,2.8vw,3.8rem)/1.05 var(--serif);margin:0 0 26px;letter-spacing:-.035em}
+.hp-earned h2{font:400 clamp(2.2rem,2.8vw,3.8rem)/1.05 var(--serif);margin:0 0 26px;letter-spacing:-.01em}
 .hp-earned h2 span{display:block;white-space:nowrap}
 .hp-earned p{font:1.25rem/1.5 var(--sans);max-width:430px}
 .hp-earned .tabs{display:flex;flex-wrap:wrap;gap:0 42px;margin-top:26px}
@@ -154,6 +158,7 @@ body:has(.hp){margin:0;background:#f7f3ec}
  .hp-hero .wrap{display:flex;flex-direction:column;align-items:stretch;min-height:0}
  .hp-hero .copy{justify-self:stretch;padding:40px 0 10px}
  .hp-hero h1{font-size:clamp(2.2rem,10.4vw,3.4rem)}
+ .hp-hero h1.one{font-size:clamp(2.4rem,12vw,4.4rem)}
  .hp-hero .lede{font-size:clamp(1.375rem,5.8vw,1.75rem)}
  .hp-hero .btn{letter-spacing:.08em;padding:15px 24px}
  .hp-hero .tiger{max-height:430px}

diff --git a/website/scrolly-site/chrome/k1-account.css b/website/scrolly-site/chrome/k1-account.css
@@ -71,7 +71,7 @@ body.woocommerce-account fieldset legend{font:400 var(--s3-fs-lede)/1.2 var(--s3
 .k1a.k1v3{--k1-panel:#ece6dc;color:var(--s3-ink);font:var(--s3-fs-body)/1.55 var(--s3-sans)}
 .k1v3 *{box-sizing:border-box}
 .k1v3 [hidden]{display:none!important}
-.k1v3 h2{margin:0 0 16px;font-family:var(--s3-serif)!important;font-weight:400!important;font-size:var(--s3-fs-h3)!important;line-height:1.05!important;letter-spacing:-.02em;text-transform:none!important;color:inherit}
+.k1v3 h2{margin:0 0 16px;font-family:var(--s3-serif)!important;font-weight:400!important;font-size:var(--s3-fs-h3)!important;line-height:1.05!important;letter-spacing:-.01em;text-transform:none!important;color:inherit}
 .k1v3 h3{margin:0 0 10px;font-family:var(--s3-serif)!important;font-weight:400!important;font-size:var(--s3-fs-lede)!important;line-height:1.2!important;letter-spacing:-.01em;text-transform:none!important;color:inherit}
 .k1v3 p{margin:0 0 12px;font-size:var(--s3-fs-body);line-height:1.55;color:inherit}
 .k1v3 a{color:inherit;text-decoration:underline;text-underline-offset:3px}
@@ -83,7 +83,7 @@ body.woocommerce-account fieldset legend{font:400 var(--s3-fs-lede)/1.2 var(--s3
 .k1v3 .sec.black{background:var(--s3-black);color:#fff}
 .k1v3 .sec.black :is(h2,h3,p,label,legend,summary,li){color:#fff}
 .k1v3 .sec.black a{color:#fff}
-.k1v3 .big{font:400 clamp(2.8rem,5vw,4.4rem)/.95 var(--s3-serif);letter-spacing:-.03em;color:inherit}
+.k1v3 .big{font:400 clamp(2.8rem,5vw,4.4rem)/.95 var(--s3-serif);letter-spacing:-.01em;color:inherit}
 .k1v3 .sec.black .big{color:var(--s3-sky)}
 .k1v3 .stripe{display:flex;align-items:center;gap:16px;margin:16px 0 8px}
 .k1v3 .stripe .track{flex:1;margin:0}
@@ -136,7 +136,7 @@ body.woocommerce-account fieldset legend{font:400 var(--s3-fs-lede)/1.2 var(--s3
 .k1v3 :is(.calc-step span,.calc-hero span){font:700 var(--s3-fs-label)/1.3 var(--s3-sans);letter-spacing:.12em;text-transform:uppercase}
 .k1v3 .calc-up{padding-left:8px;font:400 var(--s3-fs-num)/1 var(--s3-serif)}
 .k1v3 .calc-hero{display:flex;flex-direction:column;gap:6px;margin:16px 0 12px;padding:18px 22px;border-radius:16px;background:var(--k1-panel)}
-.k1v3 .calc-hero b{font:400 clamp(2.8rem,6vw,4.4rem)/1 var(--s3-serif);letter-spacing:-.03em;overflow-wrap:anywhere}
+.k1v3 .calc-hero b{font:400 clamp(2.8rem,6vw,4.4rem)/1 var(--s3-serif);letter-spacing:-.01em;overflow-wrap:anywhere}
 .k1v3 .warnline{margin:10px 0 0;font-weight:700}
 .k1v3 .calc-own{margin-top:16px}
 .k1v3 .reels{padding:clamp(20px,2.6vw,36px);border-radius:16px;background:#fff}
